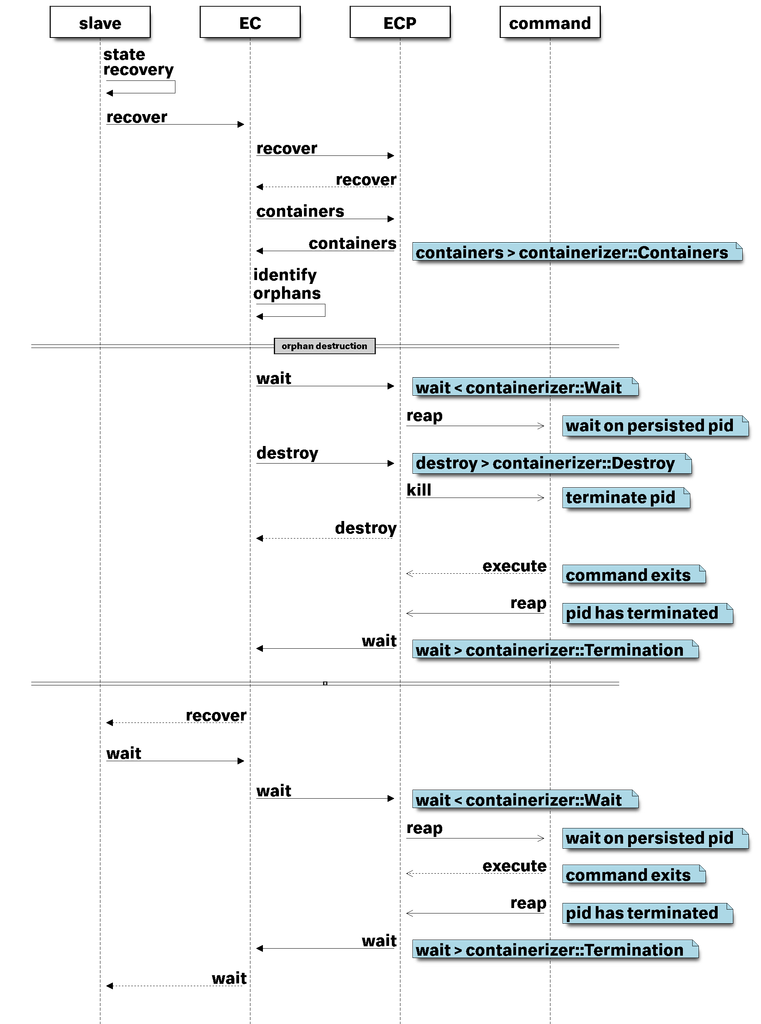
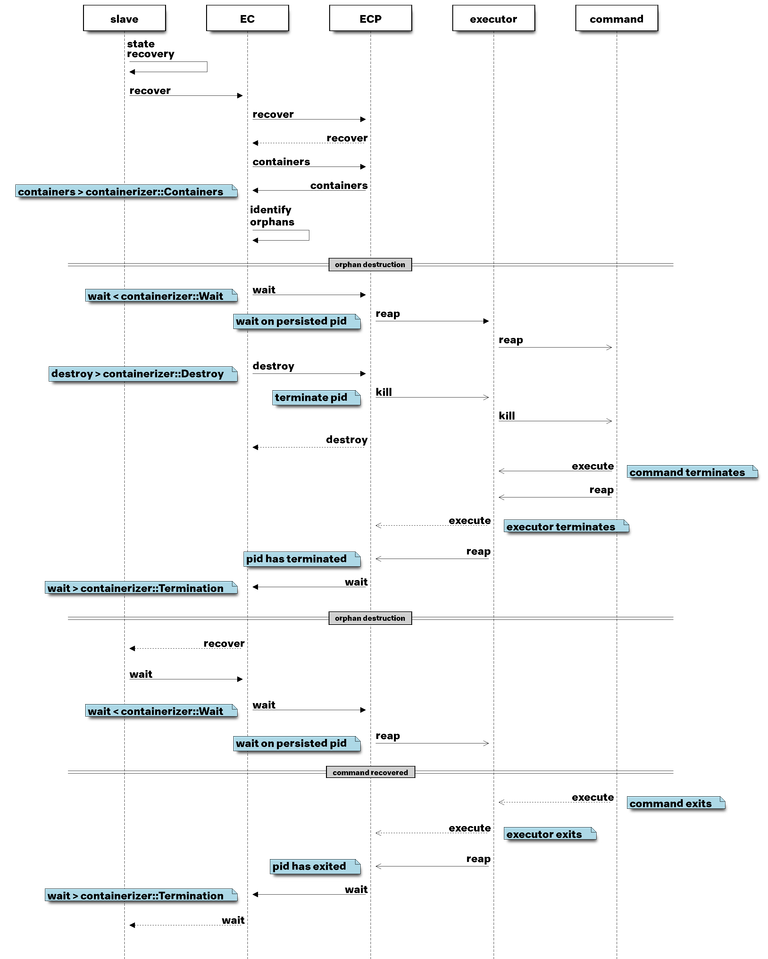
Added recovery sequence diagram.

diff --git a/docs/external-containerizer.md b/docs/external-containerizer.md
@@ -66,7 +66,7 @@ further down.
 ![Command Lifecycle Scheme](https://github.com/lobotomat/mesos/blob/master/docs/images/ec-launch-seqdiag.png?raw=true)
 
 
-## Task Launching Details
+## Task Launching Overview
 
 * EC invokes `launch` on the ECP.
  * Along with that call, the ECP will receive a containerizer::Launch
@@ -85,7 +85,12 @@ via fork-exec within the ECP.
  EC.
 
 
-## Slave Recovery Details
+## Recovery Sequence Diagram
+
+![Recovery Scheme](https://github.com/lobotomat/mesos/blob/master/docs/images/ec-recover-seqdiag.png?raw=true)
+
+
+## Slave Recovery Overview
 
 * Slave recovers via check pointed state.
 * EC invokes `recover` on the ECP - there is no protobuf message sent
